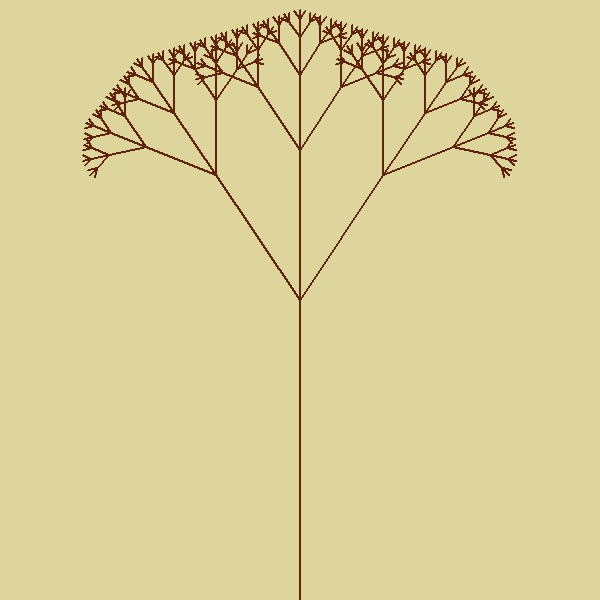
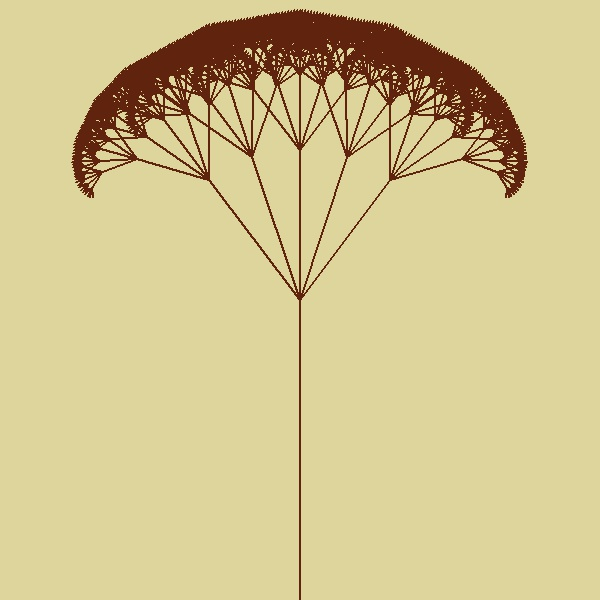
added Seed value for the random elements

diff --git a/site/htdocs/the-world/herbarium/index.php b/site/htdocs/the-world/herbarium/index.php
@@ -17,6 +17,19 @@ $result = $connection->post('statuses/update', $parameters);
 }
 
 
+function makeSeed() {
+	// http://php.net/manual/en/function.srand.php
+  list($usec, $sec) = explode(' ', microtime());
+  return (float) $sec + ((float) $usec * 100000);
+}
+
+if(isset($_GET["seed"])) {
+	$storedSeed = $_GET["seed"];
+} else {
+	$storedSeed = makeSeed();
+}
+srand($storedSeed);
+
 function splitNodes() {
 	global $openNodes, $depthToStopAt, $lengthModifier, $plantCanvas, $numberOfBranches, $branchingAngle;
 	$thisNode = array_shift($openNodes);
@@ -212,6 +225,7 @@ echo '<p>'.$startingText.'</p>';
 $cacheBustURL = "/images/herbarium/output.jpg?".$depthToStopAt."-".$branchingAngle."-".$numberOfBranches;
 echo '<img src="'.$cacheBustURL.'" width="480" height="480" alt="'.$latinName.'">';
 
+echo '<p style="font-size:0.7em;">seed: '.$storedSeed.'</p>';
 
 sendToTwitter();
 ?>
